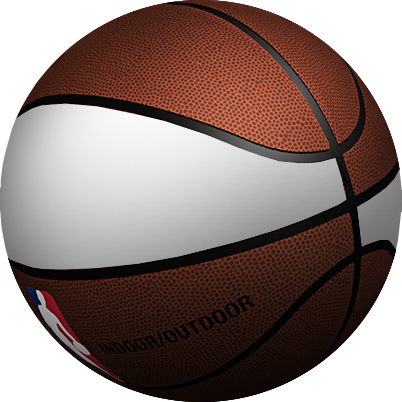
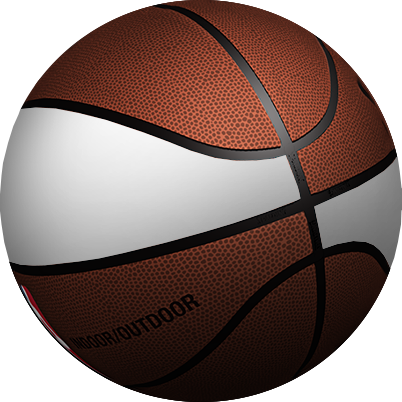
custom made

diff --git a/skin/frontend/default/spalding/js/load3D.js b/skin/frontend/default/spalding/js/load3D.js
@@ -73,22 +73,22 @@ window.onload=function (){
     };
 
     oBtnN.onclick = function(){
-        timer=setInterval(oBtnNext.onclick, 60);
+        //timer=setInterval(oBtnNext.onclick, 60);
 
-        oBtnN_top.style.display = "block";
-        setTimeout(function(){
-            oBtnN_top.style.display = "none";
-        },600);
-        // oBtnNext.onclick();
+        //oBtnN_top.style.display = "block";
+        //setTimeout(function(){
+        //    oBtnN_top.style.display = "none";
+        //},600);
+        oBtnNext.onclick();
     };
 
     oBtnZ.onclick = function(){
-        timer=setInterval(oBtnPrev.onclick, 60);
+        //timer=setInterval(oBtnPrev.onclick, 60);
         
-        oBtnZ_top.style.display = "block";
-        setTimeout(function(){
-            oBtnZ_top.style.display = "none";
-        },600);
-        // oBtnPrev.onclick();
+        //oBtnZ_top.style.display = "block";
+        //setTimeout(function(){
+        //    oBtnZ_top.style.display = "none";
+        //},600);
+        oBtnPrev.onclick();
     };
 };
